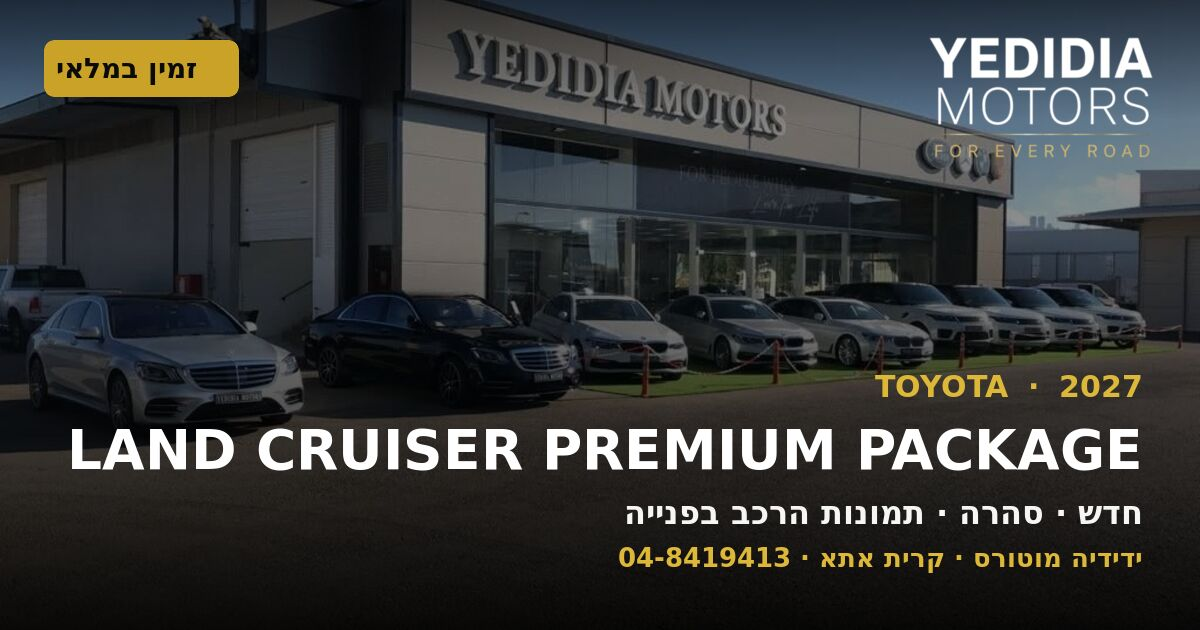
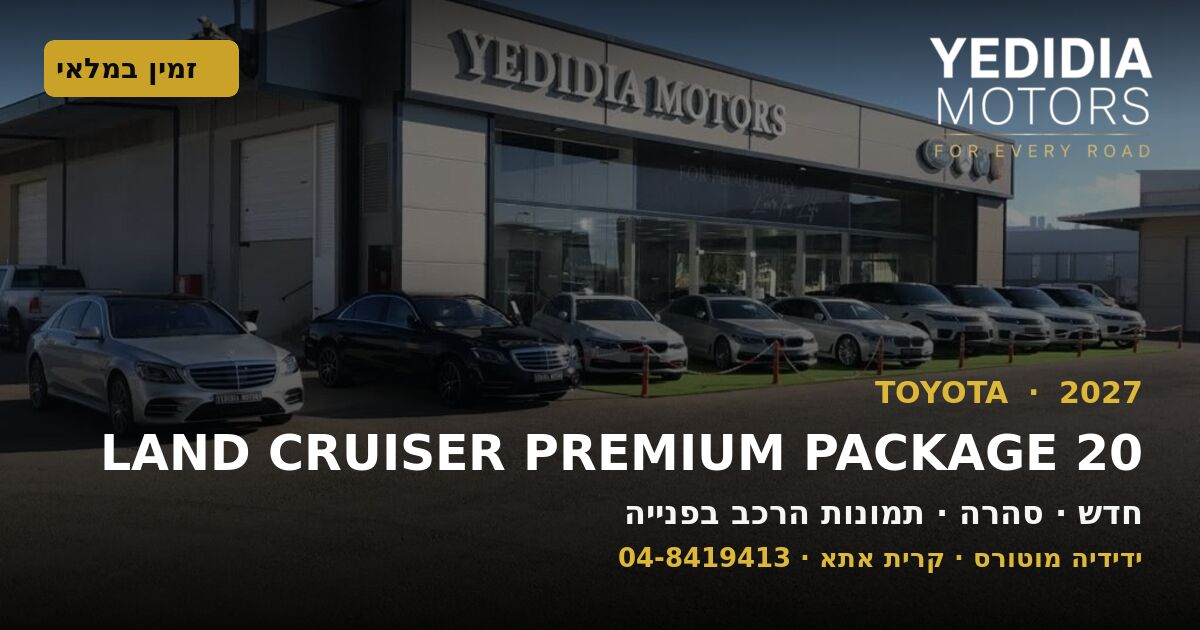
עדכון מלאי, תמונות ועמודי רכב

Changed region(s): [[0.0617, 0.573, 0.9558, 0.754]]

diff --git a/stock/071892/index.html b/stock/071892/index.html
@@ -3,29 +3,29 @@
 <head>
 <meta charset="utf-8">
 <meta name="viewport" content="width=device-width, initial-scale=1">
-<title>TOYOTA Land Cruiser Premium Package 2027 · סהרה | ידידיה מוטורס</title>
-<meta name="description" content="TOYOTA Land Cruiser Premium Package 2027 למכירה בידידיה מוטורס, המעפילים 1, קרית אתא. חדש · סהרה · 2.4L L4 · T24A-FTS · 278 כ״ס · 4x4 · SUV / ג׳יפ">
+<title>TOYOTA Land Cruiser Premium Package 20 2027 · סהרה | ידידיה מוטורס</title>
+<meta name="description" content="TOYOTA Land Cruiser Premium Package 20 2027 למכירה בידידיה מוטורס, המעפילים 1, קרית אתא. חדש · סהרה · 2.4L L4 · T24A-FTS · 278 כ״ס · 4x4 · SUV / ג׳יפ · גאנט">
 <link rel="canonical" href="https://www.yedidia-motors.com/stock/071892/">
 <link rel="stylesheet" href="/assets/fonts/fonts.css">
 <script src="/assets/site.js" defer></script>
 <meta property="og:type" content="product">
 <meta property="og:site_name" content="ידידיה מוטורס">
 <meta property="og:locale" content="he_IL">
-<meta property="og:title" content="TOYOTA Land Cruiser Premium Package 2027 · סהרה | ידידיה מוטורס">
-<meta property="og:description" content="TOYOTA Land Cruiser Premium Package 2027 למכירה בידידיה מוטורס, המעפילים 1, קרית אתא. חדש · סהרה · 2.4L L4 · T24A-FTS · 278 כ״ס · 4x4 · SUV / ג׳יפ">
+<meta property="og:title" content="TOYOTA Land Cruiser Premium Package 20 2027 · סהרה | ידידיה מוטורס">
+<meta property="og:description" content="TOYOTA Land Cruiser Premium Package 20 2027 למכירה בידידיה מוטורס, המעפילים 1, קרית אתא. חדש · סהרה · 2.4L L4 · T24A-FTS · 278 כ״ס · 4x4 · SUV / ג׳יפ · גאנט">
 <meta property="og:url" content="https://www.yedidia-motors.com/stock/071892/">
 <meta property="og:image" content="https://www.yedidia-motors.com/assets/vehicles/071892/share.jpg">
 <meta property="og:image:secure_url" content="https://www.yedidia-motors.com/assets/vehicles/071892/share.jpg">
 <meta property="og:image:type" content="image/jpeg">
 <meta property="og:image:width" content="1200">
 <meta property="og:image:height" content="630">
-<meta property="og:image:alt" content="TOYOTA Land Cruiser Premium Package 2027 — ידידיה מוטורס">
+<meta property="og:image:alt" content="TOYOTA Land Cruiser Premium Package 20 2027 — ידידיה מוטורס">
 <meta name="twitter:card" content="summary_large_image">
-<meta name="twitter:title" content="TOYOTA Land Cruiser Premium Package 2027 · סהרה | ידידיה מוטורס">
-<meta name="twitter:description" content="TOYOTA Land Cruiser Premium Package 2027 למכירה בידידיה מוטורס, המעפילים 1, קרית אתא. חדש · סהרה · 2.4L L4 · T24A-FTS · 278 כ״ס · 4x4 · SUV / ג׳יפ">
+<meta name="twitter:title" content="TOYOTA Land Cruiser Premium Package 20 2027 · סהרה | ידידיה מוטורס">
+<meta name="twitter:description" content="TOYOTA Land Cruiser Premium Package 20 2027 למכירה בידידיה מוטורס, המעפילים 1, קרית אתא. חדש · סהרה · 2.4L L4 · T24A-FTS · 278 כ״ס · 4x4 · SUV / ג׳יפ · גאנט">
 <meta name="twitter:image" content="https://www.yedidia-motors.com/assets/vehicles/071892/share.jpg">
-<script type="application/ld+json">{"@context":"https://schema.org","@type":"Car","name":"TOYOTA Land Cruiser Premium Package 2027","url":"https://www.yedidia-motors.com/stock/071892/","brand":{"@type":"Brand","name":"TOYOTA"},"model":"Land Cruiser Premium Package","itemCondition":"https://schema.org/NewCondition","offers":{"@type":"Offer","availability":"https://schema.org/InStock","priceCurrency":"ILS","seller":{"@id":"https://www.yedidia-motors.com/#dealer"},"url":"https://www.yedidia-motors.com/stock/071892/"},"vehicleModelDate":"2027","color":"סהרה","mileageFromOdometer":{"@type":"QuantitativeValue","value":0,"unitCode":"KMT"},"bodyType":"SUV / ג׳יפ","fuelType":"בנזין","driveWheelConfiguration":"4x4","numberOfDoors":5,"vehicleEngine":{"@type":"EngineSpecification","name":"2.4L L4 · T24A-FTS · 278 כ״ס","fuelType":"בנזין"},"countryOfOrigin":"יפן"}</script>
-<script type="application/ld+json">{"@context":"https://schema.org","@type":"BreadcrumbList","itemListElement":[{"@type":"ListItem","position":1,"name":"ידידיה מוטורס","item":"https://www.yedidia-motors.com/"},{"@type":"ListItem","position":2,"name":"המלאי שלנו","item":"https://www.yedidia-motors.com/stock/"},{"@type":"ListItem","position":3,"name":"TOYOTA Land Cruiser Premium Package 2027"}]}</script>
+<script type="application/ld+json">{"@context":"https://schema.org","@type":"Car","name":"TOYOTA Land Cruiser Premium Package 20 2027","url":"https://www.yedidia-motors.com/stock/071892/","brand":{"@type":"Brand","name":"TOYOTA"},"model":"Land Cruiser Premium Package 20","itemCondition":"https://schema.org/NewCondition","offers":{"@type":"Offer","availability":"https://schema.org/InStock","priceCurrency":"ILS","seller":{"@id":"https://www.yedidia-motors.com/#dealer"},"url":"https://www.yedidia-motors.com/stock/071892/"},"vehicleModelDate":"2027","color":"סהרה","mileageFromOdometer":{"@type":"QuantitativeValue","value":0,"unitCode":"KMT"},"description":"גאנט","bodyType":"SUV / ג׳יפ","fuelType":"בנזין","driveWheelConfiguration":"4x4","numberOfDoors":5,"vehicleEngine":{"@type":"EngineSpecification","name":"2.4L L4 · T24A-FTS · 278 כ״ס","fuelType":"בנזין"},"countryOfOrigin":"יפן"}</script>
+<script type="application/ld+json">{"@context":"https://schema.org","@type":"BreadcrumbList","itemListElement":[{"@type":"ListItem","position":1,"name":"ידידיה מוטורס","item":"https://www.yedidia-motors.com/"},{"@type":"ListItem","position":2,"name":"המלאי שלנו","item":"https://www.yedidia-motors.com/stock/"},{"@type":"ListItem","position":3,"name":"TOYOTA Land Cruiser Premium Package 20 2027"}]}</script>
 <style>
   :root{--bg:#0b0b0c;--bg-2:#141416;--bg-3:#1b1b1e;--line:#2a2a2e;--fg:#f5f5f3;--muted:#a1a1aa;--gold:#c9a227}
   *{box-sizing:border-box}
@@ -72,31 +72,32 @@
 </div></header>
 
 <main class="wrap" id="main" tabindex="-1">
-  <h1>TOYOTA Land Cruiser Premium Package 2027</h1>
+  <h1>TOYOTA Land Cruiser Premium Package 20 2027</h1>
   <p class="sub">סהרה · חדש · זמין</p>
   
 
   <div class="none">אין עדיין תמונות לרכב הזה. צרו קשר ונשלח לכם תמונות עדכניות.</div>
 
   <h2>מפרט</h2>
-  <table><tr><th>יצרן</th><td>TOYOTA</td></tr><tr><th>דגם</th><td>Land Cruiser Premium Package</td></tr><tr><th>שנת דגם</th><td>2027</td></tr><tr><th>סדרה</th><td>250 Series</td></tr><tr><th>צבע</th><td>סהרה</td></tr><tr><th>קילומטראז׳</th><td>0 ק״מ</td></tr><tr><th>מצב הרכב</th><td>חדש</td></tr><tr><th>מרכב</th><td>SUV / ג׳יפ</td></tr><tr><th>מנוע</th><td>2.4L L4 · T24A-FTS · 278 כ״ס</td></tr><tr><th>דלק</th><td>בנזין</td></tr><tr><th>הנעה</th><td>4x4</td></tr><tr><th>דלתות</th><td>5</td></tr><tr><th>משקל כולל מותר</th><td>עד 3,175 ק״ג</td></tr><tr><th>ארץ ייצור</th><td>יפן</td></tr><tr><th>סטטוס</th><td>זמין</td></tr><tr><th>מזהה</th><td>071892</td></tr></table>
+  <table><tr><th>יצרן</th><td>TOYOTA</td></tr><tr><th>דגם</th><td>Land Cruiser Premium Package 20</td></tr><tr><th>שנת דגם</th><td>2027</td></tr><tr><th>סדרה</th><td>250 Series</td></tr><tr><th>צבע</th><td>סהרה</td></tr><tr><th>קילומטראז׳</th><td>0 ק״מ</td></tr><tr><th>מצב הרכב</th><td>חדש</td></tr><tr><th>מרכב</th><td>SUV / ג׳יפ</td></tr><tr><th>מנוע</th><td>2.4L L4 · T24A-FTS · 278 כ״ס</td></tr><tr><th>דלק</th><td>בנזין</td></tr><tr><th>הנעה</th><td>4x4</td></tr><tr><th>דלתות</th><td>5</td></tr><tr><th>משקל כולל מותר</th><td>עד 3,175 ק״ג</td></tr><tr><th>ארץ ייצור</th><td>יפן</td></tr><tr><th>סטטוס</th><td>זמין</td></tr><tr><th>מזהה</th><td>071892</td></tr></table>
 
   
   <h2>בטיחות ועזרי נהיגה</h2>
   <ul class="chips"><li>מצלמת רוורס</li><li>בקרת יציבות (ESC)</li><li>בקרת אחיזה</li><li>ABS</li><li>חלונות עם עצירה אוטומטית בהיתקלות</li><li>כריות אוויר: קדמיות, צד, וילון, ברכיים</li></ul>
-  
+  <h2>ברכב זה</h2>
+  <ul class="eq"><li>גאנט</li></ul>
 
   <h2>מחיר</h2>
   <p>המחיר נמסר בפנייה ישירה — לפרטים צרו קשר.</p>
 
   <div class="cta">
-    <a class="p" href="/?car=TOYOTA%20Land%20Cruiser%20Premium%20Package%202027%20(071892)#lead">בקשת הצעת מחיר</a>
-    <a class="s" href="https://wa.me/972508991090?text=%D7%A9%D7%9C%D7%95%D7%9D%2C%20%D7%90%D7%A0%D7%99%20%D7%9E%D7%AA%D7%A2%D7%A0%D7%99%D7%99%D7%9F%20%D7%91-TOYOTA%20Land%20Cruiser%20Premium%20Package%202027%20%D7%A9%D7%A8%D7%90%D7%99%D7%AA%D7%99%20%D7%91%D7%90%D7%AA%D7%A8%20(%D7%9E%D7%96%D7%94%D7%94%20071892).%20%D7%90%D7%A9%D7%9E%D7%97%20%D7%9C%D7%A4%D7%A8%D7%98%D7%99%D7%9D." rel="noopener">וואטסאפ 050-899-1090</a>
+    <a class="p" href="/?car=TOYOTA%20Land%20Cruiser%20Premium%20Package%2020%202027%20(071892)#lead">בקשת הצעת מחיר</a>
+    <a class="s" href="https://wa.me/972508991090?text=%D7%A9%D7%9C%D7%95%D7%9D%2C%20%D7%90%D7%A0%D7%99%20%D7%9E%D7%AA%D7%A2%D7%A0%D7%99%D7%99%D7%9F%20%D7%91-TOYOTA%20Land%20Cruiser%20Premium%20Package%2020%202027%20%D7%A9%D7%A8%D7%90%D7%99%D7%AA%D7%99%20%D7%91%D7%90%D7%AA%D7%A8%20(%D7%9E%D7%96%D7%94%D7%94%20071892).%20%D7%90%D7%A9%D7%9E%D7%97%20%D7%9C%D7%A4%D7%A8%D7%98%D7%99%D7%9D." rel="noopener">וואטסאפ 050-899-1090</a>
     <a class="s" href="/stock/">חזרה למלאי</a>
   </div>
 
   <div class="share" aria-label="שיתוף">
-    <a href="https://wa.me/?text=%F0%9F%9A%98%20TOYOTA%20Land%20Cruiser%20Premium%20Package%202027%0A%D7%97%D7%93%D7%A9%20%C2%B7%20%D7%A1%D7%94%D7%A8%D7%94%0A2.4L%20L4%20%C2%B7%20T24A-FTS%20%C2%B7%20278%20%D7%9B%D7%B4%D7%A1%20%C2%B7%204x4%20%C2%B7%20SUV%20%2F%20%D7%92%D7%B3%D7%99%D7%A4%0A%D7%91%D7%9E%D7%9C%D7%90%D7%99%20%D7%91%D7%99%D7%93%D7%99%D7%93%D7%99%D7%94%20%D7%9E%D7%95%D7%98%D7%95%D7%A8%D7%A1%2C%20%D7%A7%D7%A8%D7%99%D7%AA%20%D7%90%D7%AA%D7%90.%20%D7%9C%D7%A4%D7%A8%D7%98%D7%99%D7%9D%20%D7%95%D7%AA%D7%99%D7%90%D7%95%D7%9D%20%D7%A0%D7%A1%D7%99%D7%A2%D7%AA%20%D7%9E%D7%91%D7%97%D7%9F%3A%2004-8419413%0Ahttps%3A%2F%2Fwww.yedidia-motors.com%2Fstock%2F071892%2F" target="_blank" rel="noopener" aria-label="שיתוף בוואטסאפ" title="שיתוף בוואטסאפ"><svg viewBox="0 0 24 24" aria-hidden="true"><path d="M17.5 14.4c-.3-.1-1.8-.9-2-1-.3-.1-.5-.1-.7.1-.2.3-.8 1-1 1.2-.2.2-.3.2-.6.1-.3-.1-1.3-.5-2.4-1.5-.9-.8-1.5-1.8-1.7-2.1-.2-.3 0-.5.1-.6l.5-.5c.1-.2.2-.3.3-.5.1-.2 0-.4 0-.5l-.9-2.2c-.2-.6-.5-.5-.7-.5h-.6c-.2 0-.5.1-.8.4-.3.3-1 1-1 2.5s1.1 2.9 1.2 3.1c.1.2 2.1 3.2 5.1 4.5.7.3 1.3.5 1.7.6.7.2 1.4.2 1.9.1.6-.1 1.8-.7 2-1.4.2-.7.2-1.3.2-1.4-.1-.2-.3-.3-.6-.4zM12 2C6.5 2 2 6.5 2 12c0 1.8.5 3.5 1.3 5L2 22l5.2-1.4c1.4.8 3.1 1.2 4.8 1.2 5.5 0 10-4.5 10-10S17.5 2 12 2zm0 18.2c-1.5 0-3-.4-4.2-1.2l-.3-.2-3.1.8.8-3-.2-.3C4.2 15 3.8 13.5 3.8 12c0-4.5 3.7-8.2 8.2-8.2s8.2 3.7 8.2 8.2-3.7 8.2-8.2 8.2z"/></svg></a>
+    <a href="https://wa.me/?text=%F0%9F%9A%98%20TOYOTA%20Land%20Cruiser%20Premium%20Package%2020%202027%0A%D7%97%D7%93%D7%A9%20%C2%B7%20%D7%A1%D7%94%D7%A8%D7%94%0A2.4L%20L4%20%C2%B7%20T24A-FTS%20%C2%B7%20278%20%D7%9B%D7%B4%D7%A1%20%C2%B7%204x4%20%C2%B7%20SUV%20%2F%20%D7%92%D7%B3%D7%99%D7%A4%0A%D7%92%D7%90%D7%A0%D7%98%0A%D7%91%D7%9E%D7%9C%D7%90%D7%99%20%D7%91%D7%99%D7%93%D7%99%D7%93%D7%99%D7%94%20%D7%9E%D7%95%D7%98%D7%95%D7%A8%D7%A1%2C%20%D7%A7%D7%A8%D7%99%D7%AA%20%D7%90%D7%AA%D7%90.%20%D7%9C%D7%A4%D7%A8%D7%98%D7%99%D7%9D%20%D7%95%D7%AA%D7%99%D7%90%D7%95%D7%9D%20%D7%A0%D7%A1%D7%99%D7%A2%D7%AA%20%D7%9E%D7%91%D7%97%D7%9F%3A%2004-8419413%0Ahttps%3A%2F%2Fwww.yedidia-motors.com%2Fstock%2F071892%2F" target="_blank" rel="noopener" aria-label="שיתוף בוואטסאפ" title="שיתוף בוואטסאפ"><svg viewBox="0 0 24 24" aria-hidden="true"><path d="M17.5 14.4c-.3-.1-1.8-.9-2-1-.3-.1-.5-.1-.7.1-.2.3-.8 1-1 1.2-.2.2-.3.2-.6.1-.3-.1-1.3-.5-2.4-1.5-.9-.8-1.5-1.8-1.7-2.1-.2-.3 0-.5.1-.6l.5-.5c.1-.2.2-.3.3-.5.1-.2 0-.4 0-.5l-.9-2.2c-.2-.6-.5-.5-.7-.5h-.6c-.2 0-.5.1-.8.4-.3.3-1 1-1 2.5s1.1 2.9 1.2 3.1c.1.2 2.1 3.2 5.1 4.5.7.3 1.3.5 1.7.6.7.2 1.4.2 1.9.1.6-.1 1.8-.7 2-1.4.2-.7.2-1.3.2-1.4-.1-.2-.3-.3-.6-.4zM12 2C6.5 2 2 6.5 2 12c0 1.8.5 3.5 1.3 5L2 22l5.2-1.4c1.4.8 3.1 1.2 4.8 1.2 5.5 0 10-4.5 10-10S17.5 2 12 2zm0 18.2c-1.5 0-3-.4-4.2-1.2l-.3-.2-3.1.8.8-3-.2-.3C4.2 15 3.8 13.5 3.8 12c0-4.5 3.7-8.2 8.2-8.2s8.2 3.7 8.2 8.2-3.7 8.2-8.2 8.2z"/></svg></a>
     <a href="https://www.facebook.com/sharer/sharer.php?u=https%3A%2F%2Fwww.yedidia-motors.com%2Fstock%2F071892%2F" target="_blank" rel="noopener" aria-label="שיתוף בפייסבוק" title="שיתוף בפייסבוק"><svg viewBox="0 0 24 24" aria-hidden="true"><path d="M13.5 22v-8h2.7l.4-3.2h-3.1V8.8c0-.9.3-1.6 1.6-1.6h1.7V4.4c-.3 0-1.3-.1-2.5-.1-2.5 0-4.1 1.5-4.1 4.2v2.3H7.4V14h2.8v8h3.3z"/></svg></a>
   </div>
 </main>

diff --git a/stock/index.html b/stock/index.html
@@ -19,7 +19,7 @@
 <meta name="twitter:card" content="summary_large_image">
 <meta name="twitter:image" content="https://www.yedidia-motors.com/assets/design/og-default.jpg">
 <!-- ym:ld:start -->
-<script type="application/ld+json">{"@context":"https://schema.org","@type":"ItemList","name":"המלאי של ידידיה מוטורס","url":"https://www.yedidia-motors.com/stock/","numberOfItems":27,"itemListElement":[{"@type":"ListItem","position":1,"url":"https://www.yedidia-motors.com/stock/TI-MERCEDES-GLC-300E-2021-7THAS/","name":"MERCEDES GLC 300E 2021"},{"@type":"ListItem","position":2,"url":"https://www.yedidia-motors.com/stock/TI-CHEVROLET-SAVANA-MAX-2018-8JEKT/","name":"CHEVROLET SAVANA MAX 2018"},{"@type":"ListItem","position":3,"url":"https://www.yedidia-motors.com/stock/TI-BMW-X1-2016-8S229/","name":"BMW X1 2016"},{"@type":"ListItem","position":4,"url":"https://www.yedidia-motors.com/stock/TI-RAM-LIMITED-2021-SBJ9E/","name":"RAM LIMITED 2021"},{"@type":"ListItem","position":5,"url":"https://www.yedidia-motors.com/stock/TI-RAM-LIMITED-2022-LHA3W/","name":"RAM LIMITED 2022"},{"@type":"ListItem","position":6,"url":"https://www.yedidia-motors.com/stock/TI-RAM-LARAMIE-2024-Y7ZN3/","name":"RAM LARAMIE 2024"},{"@type":"ListItem","position":7,"url":"https://www.yedidia-motors.com/stock/TI-RAM-LARAMIE-2024-WU7DW/","name":"RAM LARAMIE 2024"},{"@type":"ListItem","position":8,"url":"https://www.yedidia-motors.com/stock/TI-SUBARU-FORESTER-2022-HGP3Z/","name":"SUBARU Forester 2022"},{"@type":"ListItem","position":9,"url":"https://www.yedidia-motors.com/stock/TI-RAM-LIMITED-2021-MVO6W/","name":"RAM LIMITED 2021"},{"@type":"ListItem","position":10,"url":"https://www.yedidia-motors.com/stock/TI-CHEVROLET-SILVERADO-LTZ-2021-ZYQUQ/","name":"CHEVROLET SILVERADO LTZ + 2021"},{"@type":"ListItem","position":11,"url":"https://www.yedidia-motors.com/stock/TI-CHEVROLET-SILVERADO-LTZ-2022-5LGT6/","name":"CHEVROLET SILVERADO LTZ + 2022"},{"@type":"ListItem","position":12,"url":"https://www.yedidia-motors.com/stock/TI-CHEVROLET-SILVERADO-4WT-2025-MK21E/","name":"CHEVROLET SILVERADO 4WT 2025"},{"@type":"ListItem","position":13,"url":"https://www.yedidia-motors.com/stock/071892/","name":"TOYOTA Land Cruiser Premium Package 2027"},{"@type":"ListItem","position":14,"url":"https://www.yedidia-motors.com/stock/639487/","name":"LAND ROVER 2026"},{"@type":"ListItem","position":15,"url":"https://www.yedidia-motors.com/stock/605037/","name":"GMC HUMMER EV 2X PICKUP 2026"},{"@type":"ListItem","position":16,"url":"https://www.yedidia-motors.com/stock/257709/","name":"MERCEDES E350 2026"},{"@type":"ListItem","position":17,"url":"https://www.yedidia-motors.com/stock/495842/","name":"MERCEDES GLC COUPE 300 4MATIC 2026"},{"@type":"ListItem","position":18,"url":"https://www.yedidia-motors.com/stock/414331/","name":"CHEVROLET SILVERADO EV 8WT MR 2026"},{"@type":"ListItem","position":19,"url":"https://www.yedidia-motors.com/stock/415561/","name":"CHEVROLET SILVERADO EV LT PREMIUM PACKAGE ER 2026"},{"@type":"ListItem","position":20,"url":"https://www.yedidia-motors.com/stock/413288/","name":"CHEVROLET SILVERADO EV LT PREMIUM PACKAGE ER 2026"},{"@type":"ListItem","position":21,"url":"https://www.yedidia-motors.com/stock/413563/","name":"CHEVROLET SILVERADO EV LT PLUS ER 2026"},{"@type":"ListItem","position":22,"url":"https://www.yedidia-motors.com/stock/414671/","name":"CHEVROLET SILVERADO LT EV MR 2026"},{"@type":"ListItem","position":23,"url":"https://www.yedidia-motors.com/stock/410292/","name":"CHEVROLET SILVERADO EV TRAIL BOSS MR 2026 2026"},{"@type":"ListItem","position":24,"url":"https://www.yedidia-motors.com/stock/413055/","name":"CHEVROLET SILVERADO EV TRAIL BOSS PREMIUM ER 2026"},{"@type":"ListItem","position":25,"url":"https://www.yedidia-motors.com/stock/416023/","name":"GMC SIERRA DENALI EV MR 2026"},{"@type":"ListItem","position":26,"url":"https://www.yedidia-motors.com/stock/411512/","name":"GMC SIERRA EV AT4 PREMIUM ER 2026"},{"@type":"ListItem","position":27,"url":"https://www.yedidia-motors.com/stock/408805/","name":"GMC SIERRA EV ELEVATION PREMIUM ER 18 2026"}]}</script>
+<script type="application/ld+json">{"@context":"https://schema.org","@type":"ItemList","name":"המלאי של ידידיה מוטורס","url":"https://www.yedidia-motors.com/stock/","numberOfItems":27,"itemListElement":[{"@type":"ListItem","position":1,"url":"https://www.yedidia-motors.com/stock/TI-MERCEDES-GLC-300E-2021-7THAS/","name":"MERCEDES GLC 300E 2021"},{"@type":"ListItem","position":2,"url":"https://www.yedidia-motors.com/stock/TI-CHEVROLET-SAVANA-MAX-2018-8JEKT/","name":"CHEVROLET SAVANA MAX 2018"},{"@type":"ListItem","position":3,"url":"https://www.yedidia-motors.com/stock/TI-BMW-X1-2016-8S229/","name":"BMW X1 2016"},{"@type":"ListItem","position":4,"url":"https://www.yedidia-motors.com/stock/TI-RAM-LIMITED-2021-SBJ9E/","name":"RAM LIMITED 2021"},{"@type":"ListItem","position":5,"url":"https://www.yedidia-motors.com/stock/TI-RAM-LIMITED-2022-LHA3W/","name":"RAM LIMITED 2022"},{"@type":"ListItem","position":6,"url":"https://www.yedidia-motors.com/stock/TI-RAM-LARAMIE-2024-Y7ZN3/","name":"RAM LARAMIE 2024"},{"@type":"ListItem","position":7,"url":"https://www.yedidia-motors.com/stock/TI-RAM-LARAMIE-2024-WU7DW/","name":"RAM LARAMIE 2024"},{"@type":"ListItem","position":8,"url":"https://www.yedidia-motors.com/stock/TI-SUBARU-FORESTER-2022-HGP3Z/","name":"SUBARU Forester 2022"},{"@type":"ListItem","position":9,"url":"https://www.yedidia-motors.com/stock/TI-RAM-LIMITED-2021-MVO6W/","name":"RAM LIMITED 2021"},{"@type":"ListItem","position":10,"url":"https://www.yedidia-motors.com/stock/TI-CHEVROLET-SILVERADO-LTZ-2021-ZYQUQ/","name":"CHEVROLET SILVERADO LTZ + 2021"},{"@type":"ListItem","position":11,"url":"https://www.yedidia-motors.com/stock/TI-CHEVROLET-SILVERADO-LTZ-2022-5LGT6/","name":"CHEVROLET SILVERADO LTZ + 2022"},{"@type":"ListItem","position":12,"url":"https://www.yedidia-motors.com/stock/TI-CHEVROLET-SILVERADO-4WT-2025-MK21E/","name":"CHEVROLET SILVERADO 4WT 2025"},{"@type":"ListItem","position":13,"url":"https://www.yedidia-motors.com/stock/071892/","name":"TOYOTA Land Cruiser Premium Package 20 2027"},{"@type":"ListItem","position":14,"url":"https://www.yedidia-motors.com/stock/639487/","name":"LAND ROVER 2026"},{"@type":"ListItem","position":15,"url":"https://www.yedidia-motors.com/stock/605037/","name":"GMC HUMMER EV 2X PICKUP 2026"},{"@type":"ListItem","position":16,"url":"https://www.yedidia-motors.com/stock/257709/","name":"MERCEDES E350 2026"},{"@type":"ListItem","position":17,"url":"https://www.yedidia-motors.com/stock/495842/","name":"MERCEDES GLC COUPE 300 4MATIC 2026"},{"@type":"ListItem","position":18,"url":"https://www.yedidia-motors.com/stock/414331/","name":"CHEVROLET SILVERADO EV 8WT MR 2026"},{"@type":"ListItem","position":19,"url":"https://www.yedidia-motors.com/stock/415561/","name":"CHEVROLET SILVERADO EV LT PREMIUM PACKAGE ER 2026"},{"@type":"ListItem","position":20,"url":"https://www.yedidia-motors.com/stock/413288/","name":"CHEVROLET SILVERADO EV LT PREMIUM PACKAGE ER 2026"},{"@type":"ListItem","position":21,"url":"https://www.yedidia-motors.com/stock/413563/","name":"CHEVROLET SILVERADO EV LT PLUS ER 2026"},{"@type":"ListItem","position":22,"url":"https://www.yedidia-motors.com/stock/414671/","name":"CHEVROLET SILVERADO LT EV MR 2026"},{"@type":"ListItem","position":23,"url":"https://www.yedidia-motors.com/stock/410292/","name":"CHEVROLET SILVERADO EV TRAIL BOSS MR 2026 2026"},{"@type":"ListItem","position":24,"url":"https://www.yedidia-motors.com/stock/413055/","name":"CHEVROLET SILVERADO EV TRAIL BOSS PREMIUM ER 2026"},{"@type":"ListItem","position":25,"url":"https://www.yedidia-motors.com/stock/416023/","name":"GMC SIERRA DENALI EV MR 2026"},{"@type":"ListItem","position":26,"url":"https://www.yedidia-motors.com/stock/411512/","name":"GMC SIERRA EV AT4 PREMIUM ER 2026"},{"@type":"ListItem","position":27,"url":"https://www.yedidia-motors.com/stock/408805/","name":"GMC SIERRA EV ELEVATION PREMIUM ER 18 2026"}]}</script>
 <!-- ym:ld:end -->
 <link rel="stylesheet" href="/assets/fonts/fonts.css">
 <script src="/assets/site.js" defer></script>
@@ -229,7 +229,7 @@
 <li><a href="/stock/TI-CHEVROLET-SILVERADO-LTZ-2021-ZYQUQ/">CHEVROLET SILVERADO LTZ + 2021</a> — 2021 · לבן · יד שנייה · זמין</li>
 <li><a href="/stock/TI-CHEVROLET-SILVERADO-LTZ-2022-5LGT6/">CHEVROLET SILVERADO LTZ + 2022</a> — 2022 · לבן · יד שנייה · זמין</li>
 <li><a href="/stock/TI-CHEVROLET-SILVERADO-4WT-2025-MK21E/">CHEVROLET SILVERADO 4WT 2025</a> — 2025 · לבן · יד שנייה · זמין</li>
-<li><a href="/stock/071892/">TOYOTA Land Cruiser Premium Package 2027</a> — 2027 · סהרה · חדש · זמין</li>
+<li><a href="/stock/071892/">TOYOTA Land Cruiser Premium Package 20 2027</a> — 2027 · סהרה · חדש · זמין</li>
 <li><a href="/stock/639487/">LAND ROVER 2026</a> — 2026 · שחור · חדש · זמין</li>
 <li><a href="/stock/605037/">GMC HUMMER EV 2X PICKUP 2026</a> — 2026 · לבן · חדש · נמכר</li>
 <li><a href="/stock/257709/">MERCEDES E350 2026</a> — 2026 · שחור מטאלי · חדש · זמין</li>
